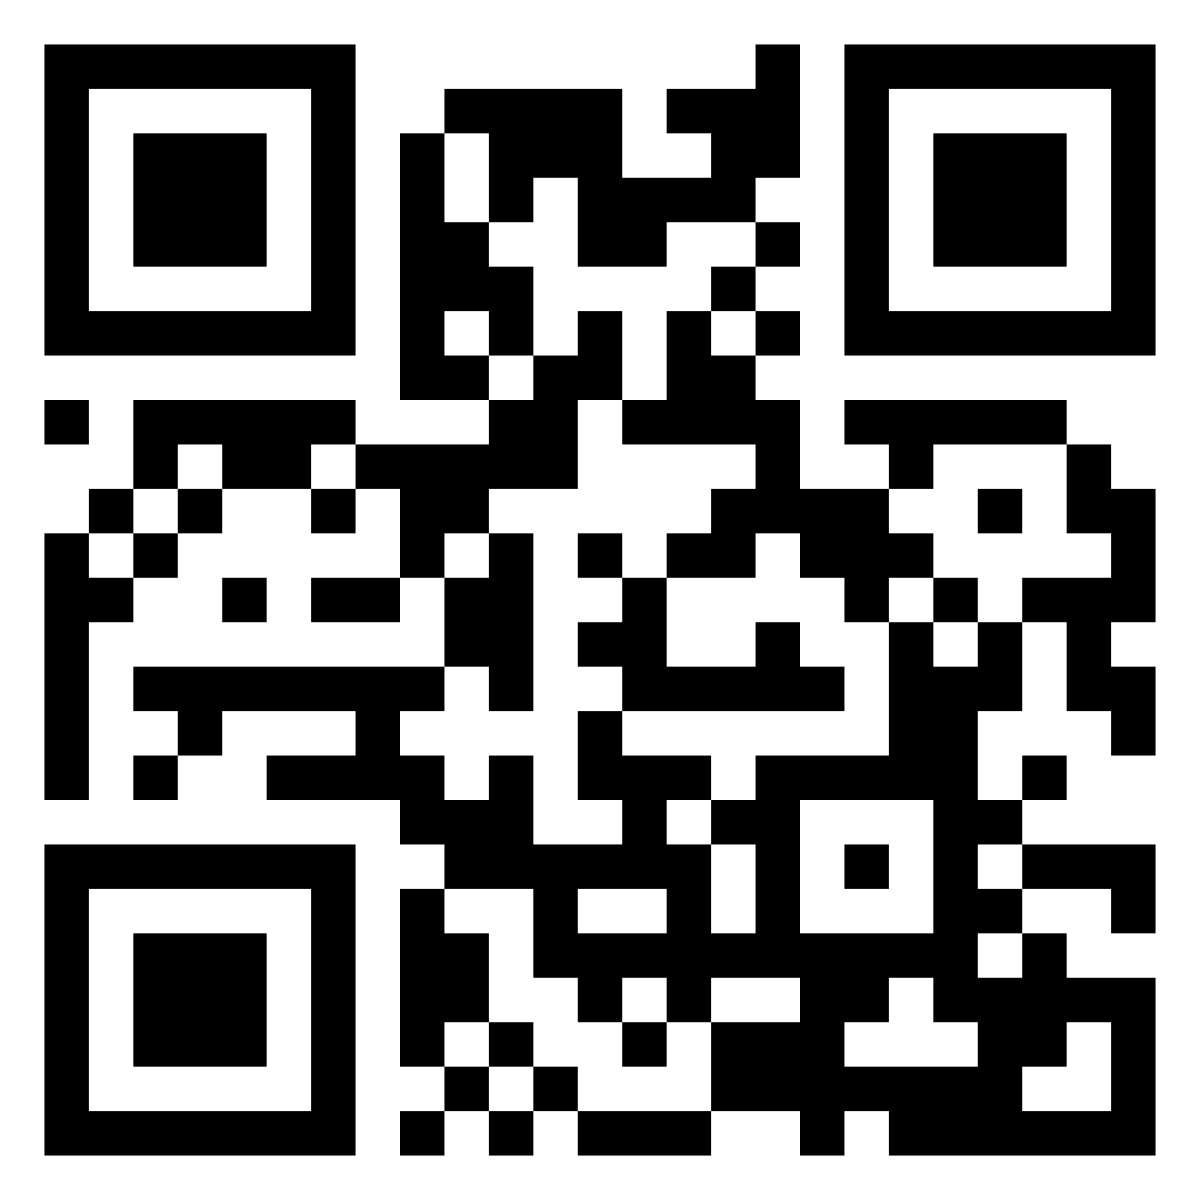
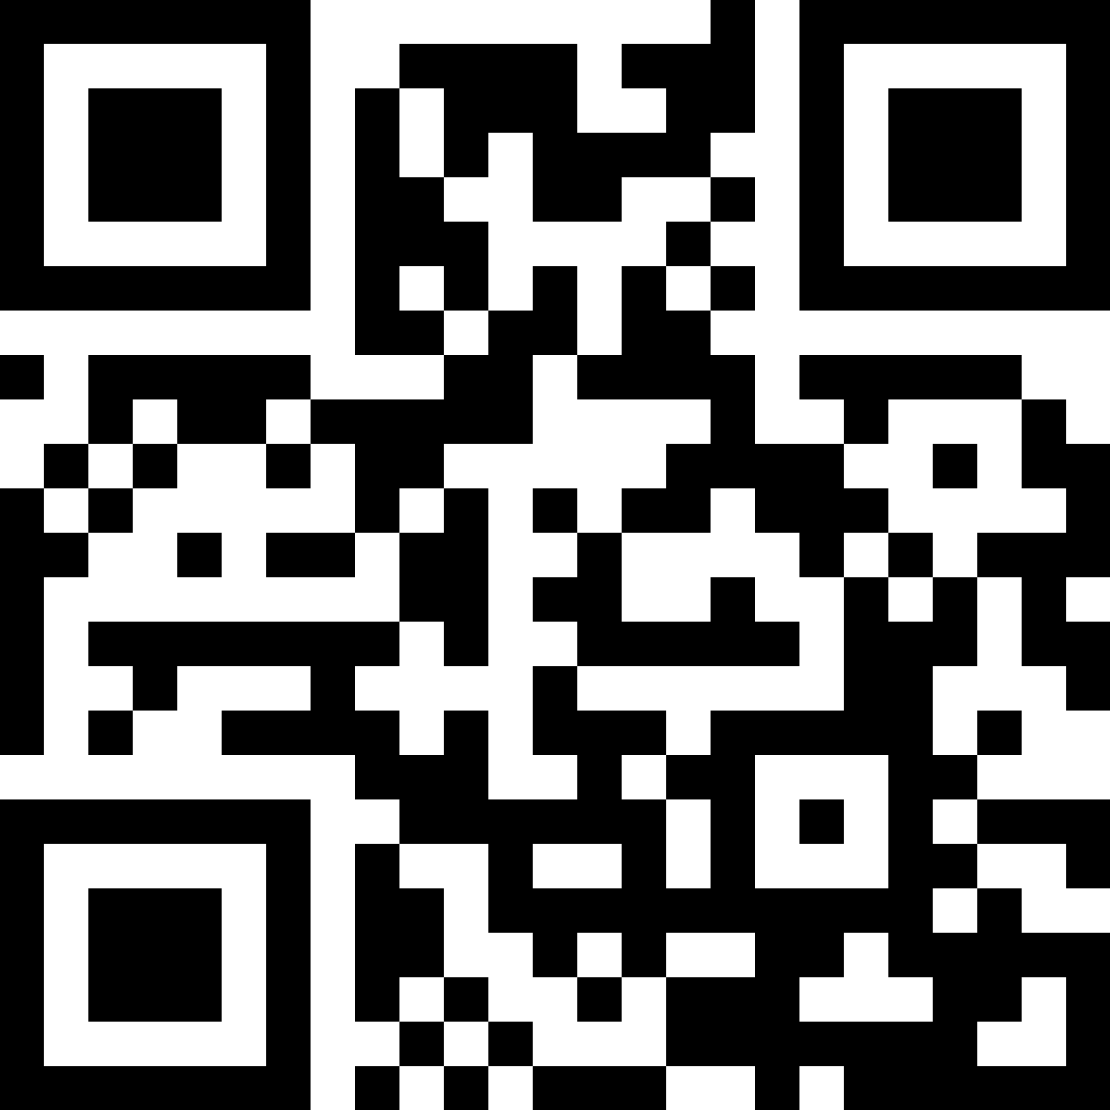
Removed elevation from appbar and responsive qr code.

diff --git a/lib/qrcode.dart b/lib/qrcode.dart
@@ -17,6 +17,7 @@ class _MyQRPageState extends State<MyQRPage> {
     return Scaffold(
       appBar: AppBar(
         title: MyHeader(),
+        elevation: 0,
       ),
       body: Container(
         alignment: Alignment.topLeft,
@@ -27,9 +28,10 @@ class _MyQRPageState extends State<MyQRPage> {
           children: <Widget>[
             Text(
               "Mein QR-Code",
-              style: Theme.of(context).textTheme.headline4,
+              style: Theme.of(context).textTheme.headline4, textAlign: TextAlign.start,
             ),
-            Image.asset('images/qr.png'),
+            Image.asset('images/qr.png', height: MediaQuery.of(context).size.width * 0.8),
+
           ],
         ),
       ),

diff --git a/lib/about.dart b/lib/about.dart
@@ -17,6 +17,7 @@ class _MyAboutPageState extends State<MyAboutPage> {
     return Scaffold(
       appBar: AppBar(
         title: MyHeader(),
+        elevation: 0,
       ),
       body: Container(
         alignment: Alignment.topLeft,

diff --git a/lib/forgotpassword.dart b/lib/forgotpassword.dart
@@ -17,6 +17,7 @@ class _MyForgotPasswordPageState extends State<MyForgotPasswordPage> {
     return Scaffold(
       appBar: AppBar(
         title: MyHeader(),
+        elevation: 0,
       ),
       body: Center(
         child: Column(

diff --git a/lib/main.dart b/lib/main.dart
@@ -51,6 +51,7 @@ class _MyHomePageState extends State<MyHomePage> {
     return Scaffold(
       appBar: AppBar(
         title: MyHeader(),
+        elevation: 0,
       ),
       body: Container(
         alignment: Alignment.topLeft,

diff --git a/lib/faq.dart b/lib/faq.dart
@@ -17,6 +17,7 @@ class _MyFaqPageState extends State<MyFaqPage> {
     return Scaffold(
       appBar: AppBar(
         title: MyHeader(),
+        elevation: 0,
       ),
       body: Container(
         alignment: Alignment.topLeft,

diff --git a/lib/register.dart b/lib/register.dart
@@ -17,6 +17,7 @@ class _MyRegisterPageState extends State<MyRegisterPage> {
     return Scaffold(
       appBar: AppBar(
         title: MyHeader(),
+        elevation: 0,
       ),
       body: Center(
         child: Column(

diff --git a/lib/family.dart b/lib/family.dart
@@ -17,6 +17,7 @@ class _MyFamilyPageState extends State<MyFamilyPage> {
     return Scaffold(
       appBar: AppBar(
         title: MyHeader(),
+        elevation: 0,
       ),
       body: Center(
         child: Column(

diff --git a/lib/login.dart b/lib/login.dart
@@ -17,6 +17,7 @@ class _MyLoginPageState extends State<MyLoginPage> {
     return Scaffold(
       appBar: AppBar(
         title: MyHeader(),
+        elevation: 0,
       ),
       body: Center(
         child: Column(

diff --git a/lib/testresult.dart b/lib/testresult.dart
@@ -17,6 +17,7 @@ class _MyTestPageState extends State<MyTestPage> {
     return Scaffold(
       appBar: AppBar(
         title: MyHeader(),
+        elevation: 0,
       ),
       body: Center(
         child: Column(
